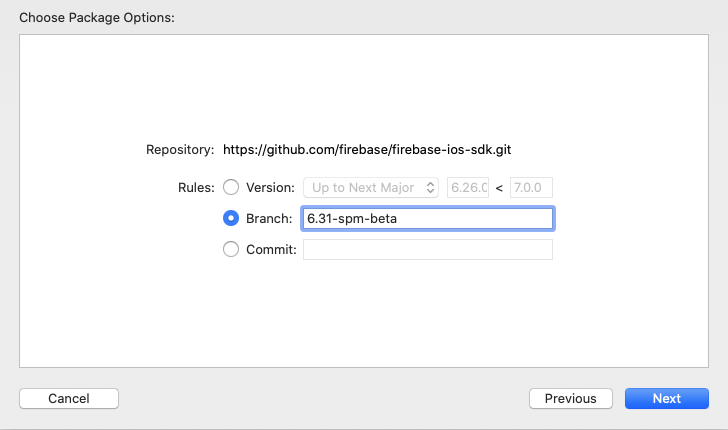
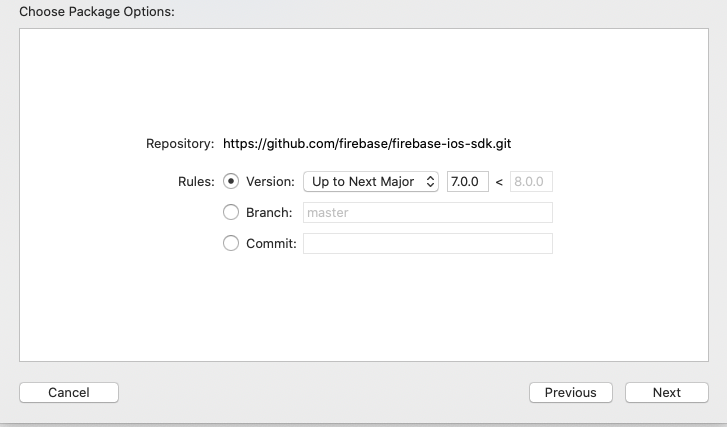
Add standard SwiftPM versioning support (#6860)

diff --git a/Package.swift b/Package.swift
@@ -100,19 +100,17 @@ let package = Package(
     ),
     .package(
       name: "nanopb",
-      url: "https://github.com/nanopb/nanopb.git",
+      url: "https://github.com/firebase/nanopb.git",
       // This revision adds SPM enablement to the 0.3.9.6 release tag.
-      .revision("8119dfe5631f2616d11e50ead95448d12e816062")
+      "2.30906.0" ..< "2.30907.0"
     ),
-    .package(
-      name: "abseil",
-      url: "https://github.com/firebase/abseil-cpp-SwiftPM.git",
-      .revision("05d8107f2971a37e6c77245b7c4c6b0a7e97bc99")
-    ),
+    .package(name: "abseil",
+             url: "https://github.com/firebase/abseil-cpp-SwiftPM.git",
+             from: "0.20200225.0"),
     .package(
       name: "gRPC",
       url: "https://github.com/firebase/grpc-SwiftPM.git",
-      .revision("5bb2669317ae2183f4cb00c675423af1924f0b46")
+      "1.28.2" ..< "1.29.0"
     ),
     .package(
       name: "OCMock",
@@ -122,7 +120,7 @@ let package = Package(
     .package(
       name: "leveldb",
       url: "https://github.com/firebase/leveldb.git",
-      .revision("fa1f25f296a766e5a789c4dacd4798dea798b2c2")
+      "1.22.1" ..< "1.23.0"
     ),
     // Branches need a force update with a run with the revision set like below.
     //   .package(url: "https://github.com/paulb777/nanopb.git", .revision("564392bd87bd093c308a3aaed3997466efb95f74"))

diff --git a/SwiftPackageManager.md b/SwiftPackageManager.md
@@ -28,12 +28,13 @@ Select the Firebase GitHub repository - `https://github.com/firebase/firebase-io
 
 <img src="docs/resources/SPMChoose.png">
 
-Select the beta branch.
+Select the version.
 
-Note: Starting with the 6.31.0 release, the versions are specified
-in a format like 6.34-spm-beta. We won't support standard repository
-versioning until later in the beta or with general availability of the SPM
-distribution.
+Note: Prior to the 7.0.0 release, version selection is not available. Instead, the releases
+are available in branches with names like 6.34-spm-beta.
+
+Note: The Swift Package Manager distribution continues to be in beta even though it now
+supports standard Swift Package Manager versioning.
 
 <img src="docs/resources/SPMSelect.png">
 
